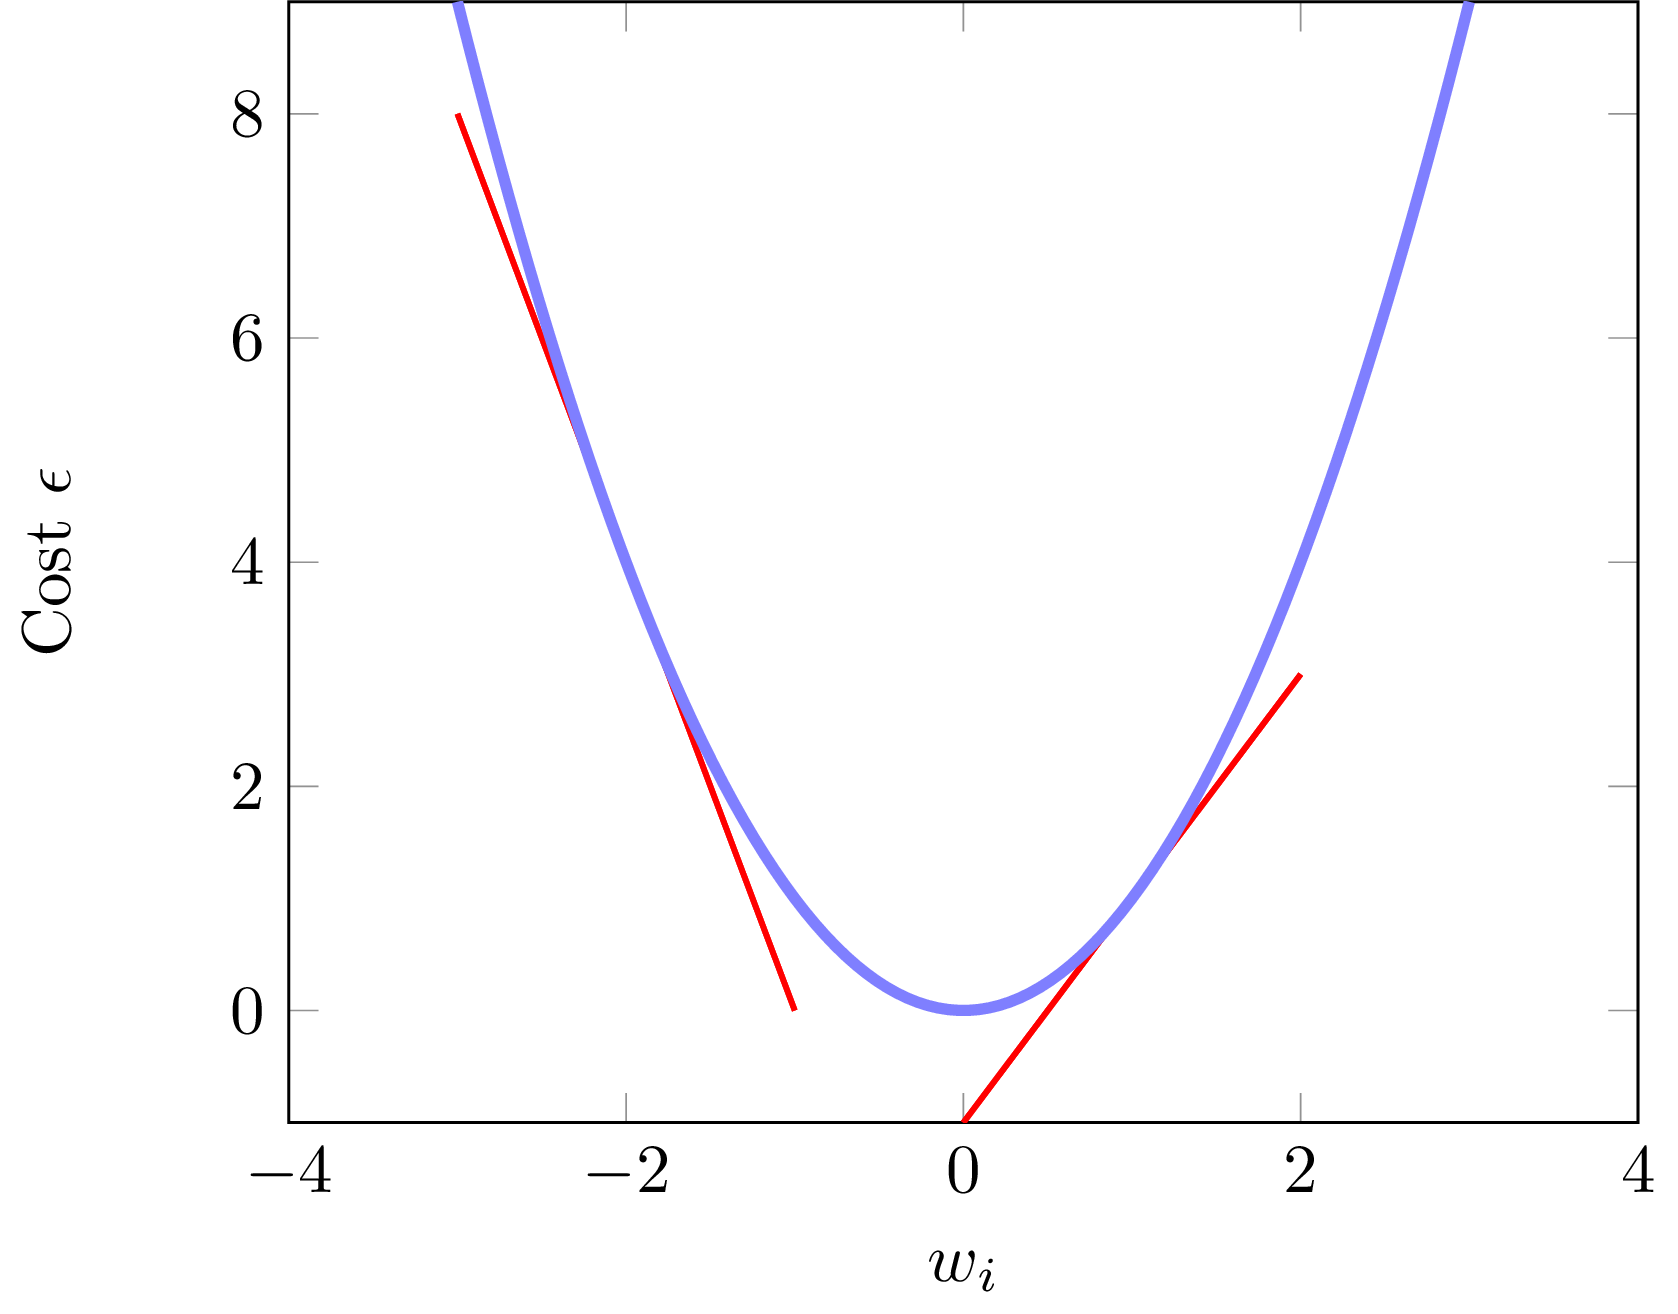
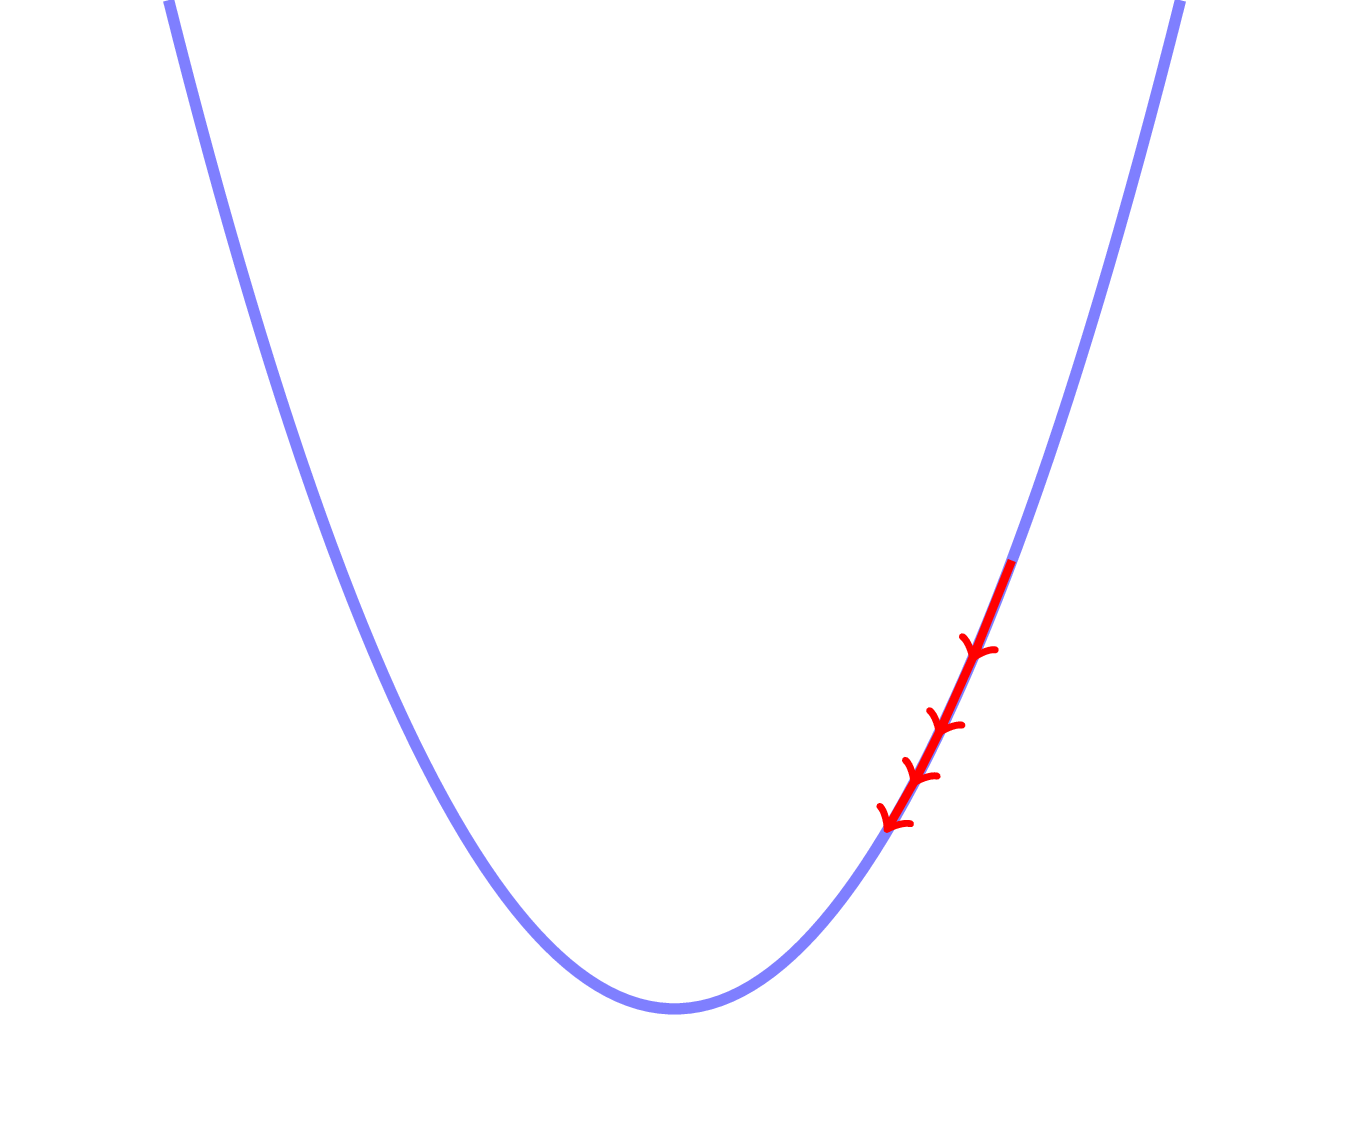
More images!

diff --git a/images/latex_generated_images/hidden_layer_neural_network.tex b/images/latex_generated_images/hidden_layer_neural_network.tex
@@ -19,9 +19,17 @@
 \node[draw, scale=2, line width=2, circle, minimum size=1cm] (x783) at (-7, -12) {\huge $x_{783}$};
 
 % right hemisphere of hidden nodes
+\draw[red, fill=orange] (7,8.5) arc(90:-90:1.5) -- (7,6.5) -- (7,8.5);
+\draw[red, fill=orange] (7,3.5) arc(90:-90:1.5) -- (7,1.5) -- (7,3.5);
+\draw[red, fill=orange] (7,-5.4) arc(90:-90:1.6) -- (7,-7.4) -- (7,-5.4);
+
+% right hemisphere of hidden nodes
 %\draw[red, fill=red] (7,8.5) arc(90:-90:1.5) -- (7,6.5) -- (7,8.5);
 %\draw[red, fill=red] (7,3.5) arc(90:-90:1.5) -- (7,1.5) -- (7,3.5);
 %\draw[red, fill=red] (7,-5.4) arc(90:-90:1.6) -- (7,-7.4) -- (7,-5.4);
+
+% rectangle around x
+\draw[line width=2, color=red] (21, 14) rectangle (24, -14);
 
 % hidden nodes
 
@@ -34,18 +42,18 @@
 % right hemisphere of output nodes
 \draw[red, fill=red] (21,11.5) arc(90:-90:1.5) -- (21,9.5) -- (21,11.5);
 \draw[red, fill=red] (21,3.5) arc(90:-90:1.5) -- (21,1.5) -- (21,3.5);
-\draw[red, fill=red] (21,-6.5) arc(90:-90:1.5) -- (21,-8.5) -- (21,-6.5);
+\draw[red, fill=red] (21,-8.5) arc(90:-90:1.5) -- (21,-10.5) -- (21,-8.5);
 
 % output nodes
 
 \node[draw, line width=2, circle, minimum size=3cm] (y0) at (21, 10) {};
 \node[draw, line width=2, circle, minimum size=3cm] (y1) at (21, 2) {};
 \node[line width=2, minimum size=3cm] (yother) at (21, -2) {\Huge ...};
-\node[draw, line width=2, circle, minimum size=3cm] (y9) at (21, -8) {};
+\node[draw, line width=2, circle, minimum size=3cm] (y9) at (21, -10) {};
 
 \node[scale=3] (y0_label) at (21,10) {\Huge 0};
 \node[scale=3] (y1_label) at (21,2) {\Huge 1};
-\node[scale=3] (y9_label) at (21,-8) {\Huge 9};
+\node[scale=3] (y9_label) at (21,-10) {\Huge 9};
 
 
 % input to hidden
@@ -75,7 +83,6 @@
 \draw [->, line width=2] (h127) -- (y1); 
 \draw [->, line width=2] (h127) -- (y9); 
 
-% rectangle around 
 
 
 \end{tikzpicture}

diff --git a/images/latex_generated_images/cost_function.tex b/images/latex_generated_images/cost_function.tex
@@ -5,18 +5,27 @@
 \begin{document}
 
 \begin{tikzpicture}
-\begin{axis}[xmax=4,xmin=-4,ymax=9, ymin=-1, samples=100, xlabel={$w_i$}, ylabel={Cost $\epsilon$}, title style={font=\huge}]
+\begin{axis}[xmax=4,xmin=-4,ymax=9, ymin=-1, samples=100, xlabel={$w_i$}, ylabel={Cost $\epsilon$}, title style={font=\huge}, axis lines=none]
   % TODO: remove axes
 
-  \addplot[domain=0:2, red, thick] (x, 2*1*x-1);
-  \addplot[domain=-3:-1, red, thick] (x, 2*-2*x-4);
 
-  \addplot[domain=0:2, red, thick] (x, 2*1*x-1);
-  \addplot[domain=-3:-1, red, thick] (x, 2*-2*x-4);
-
-%  \addplot[domain=-9:9, gray] (x, 0);
-%  \addplot[domain=-9:9, gray] (0, x);
   \addplot[domain=-3:3, blue!50, ultra thick] (x, x*x);
+
+% TANGENTS
+%  \addplot[domain=0:2, red, thick] (x, 2*1*x-1);
+%  \addplot[domain=-3:-1, red, thick] (x, 2*-2*x-4);
+
+
+% TARGET
+\addplot[red, mark=*, only marks, mark size=4] coordinates {(0,0)};
+
+% NICE TRAJECTORY
+%\draw[->, red, very thick] (axis cs:2, 2*2)--(axis cs: 1, 1*1);
+%\draw[->, red, very thick] (axis cs:1, 1*1)--(axis cs: -0.4, -0.4*-0.4);
+%\draw[->, red, very thick] (axis cs:-0.4, -0.4*-0.4)--(axis cs: 0, 0*0);
+%\draw[->, red, very thick] (axis cs:1.6, 1.6*1.6)--(axis cs: 1.41, 1.41*1.41);
+%\draw[->, red, very thick] (axis cs:1.45, 1.45*1.45)--(axis cs: 1.25, 1.25*1.26);
+
 
 % OVERSHOOT
 %\node (p1) at (axis cs:2.1,4){};
